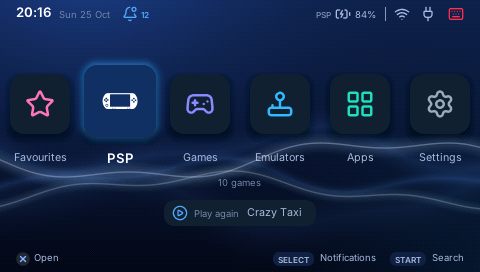
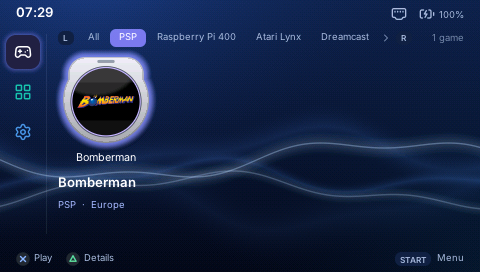
Docs: the launcher's pictures taken again on the PSP after the revisit.
launcher-home.png (Games, All) and psp-section.png (the PSP tab), from
the PSP-1000 at 1:1; README's and the PSP games page's alt texts follow.
The new launcher checked there too (All, the PSP tab, Settings, Apps, the
PSP's battery in the top bar): Launcher_and_Boards §3.3. The site's
front page captions wait for the release.

Claude-Session: https://claude.ai/code/session_016ExLH4EBwMVt1mL5cwEARW

diff --git a/README.md b/README.md
@@ -32,8 +32,8 @@ What you get on the PSP:
 
 | | |
 |---|---|
-| <img src="docs/images/launcher-home.png" width="400" alt="The launcher's home screen"> | <img src="docs/images/packages.png" width="400" alt="The Packages app"> |
-| The launcher's home screen | Packages: install games from the PSP |
+| <img src="docs/images/launcher-home.png" width="400" alt="The launcher: Games, every game on one shelf"> | <img src="docs/images/packages.png" width="400" alt="The Packages app"> |
+| The launcher: Games | Packages: install games from the PSP |
 | <img src="docs/images/celeste64.png" width="400" alt="Celeste 64 on the PSP"> | <img src="docs/images/supertuxkart.png" width="400" alt="SuperTuxKart on the PSP"> |
 | Celeste 64, drawn by a Raspberry Pi's GPU | SuperTuxKart, the same way |
 

diff --git a/docs/Launcher_and_Boards.md b/docs/Launcher_and_Boards.md
@@ -611,8 +611,10 @@ PSP's battery (the board's icon and the plug went). `detail_line` says what
 a game is in words, the system's name, "PSP · Europe", the board's name for
 its own games, and "played last" / "played lately" from `recent_rank` (the
 recent list has no times); the size, dump tags and renderer are in Details.
-Its colour is the section's, lighter (`light_of`). The launcher pictures in
-docs/images and on the site are to be taken again on the real PSP.
+Its colour is the section's, lighter (`light_of`). Then checked on the
+PSP-1000 at 1:1 (All, the PSP tab, Settings, Apps; its battery in the top
+bar), and docs/images' launcher-home.png and psp-section.png taken again
+there.
 
 ### 3.4 Status (2026-09-26)
 

diff --git a/docs/manual/psp-games.md b/docs/manual/psp-games.md
@@ -6,7 +6,7 @@ its own icon. Choose one and the PSP runs it itself, at its own speed, reading
 the game's disc from the board over the USB cable. Leave the game and you are
 back in PSPExp.
 
-![The launcher's home screen: the PSP section in focus](../images/psp-section.png)
+![The launcher's PSP tab: your own PSP games, each with its icon](../images/psp-section.png)
 
 ## What you need
 
